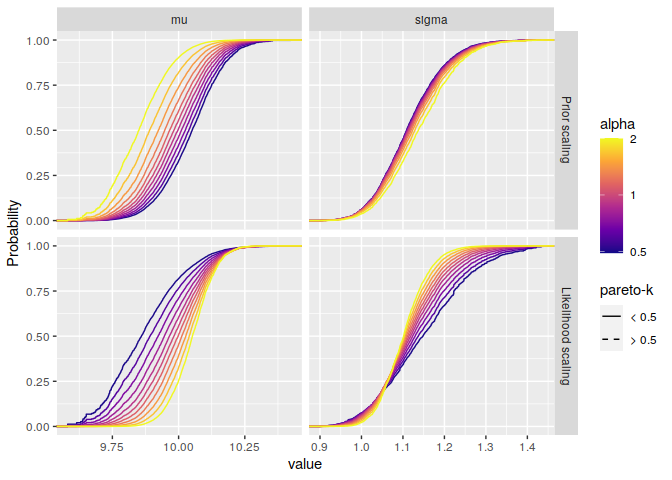
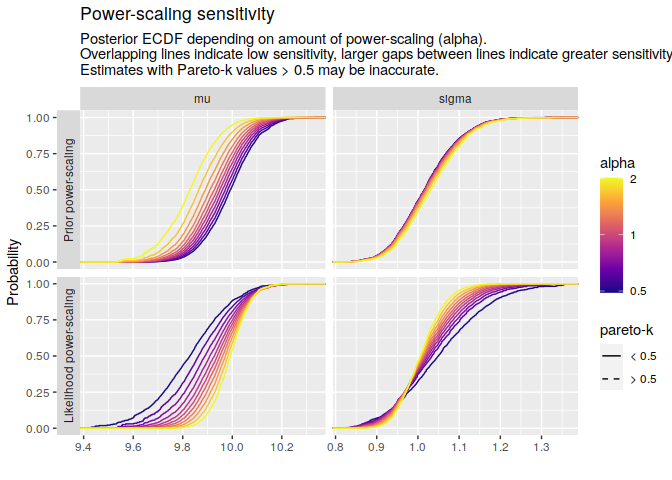
update readme

diff --git a/README.md b/README.md
@@ -30,7 +30,7 @@ priorsense currently works with models created with rstan, cmdstanr or brms. How
 
 ### Example
 
-Consider a simple univariate model with unknown mu and sigma fit to some data y (available via`example_powerscale_model("univariate_normal")`:
+Consider a simple univariate model with unknown mu and sigma fit to some data y (available via`example_powerscale_model("univariate_normal")`):
 
 ``` stan
 data {
@@ -70,7 +70,7 @@ fit <- rstan::stan(
   model_code = normal_model$model_code,
   data = normal_model$data,
   refresh = FALSE,
-  seed = 123
+  seed = 1234
 )
 ```
 
@@ -82,20 +82,21 @@ powerscale_sensitivity(fit, variables = c("mu", "sigma"))
 #> # A tibble: 2 × 4
 #>   variable  prior likelihood diagnosis          
 #>   <chr>     <dbl>      <dbl> <chr>              
-#> 1 mu       0.167      0.228  prior-data conflict
-#> 2 sigma    0.0233     0.0627 -
+#> 1 mu       0.152      0.219  prior-data conflict
+#> 2 sigma    0.0141     0.0612 -
 ```
 
-To visually inspect changes to the posterior, first create a power-scaling sequence and then use a plotting function. Here we use moment matching in order to arrive at more stable estimates.
+To visually inspect changes to the posterior, first create a power-scaling sequence and then use a plotting function.
 
 ``` r
 pss <- powerscale_sequence(fit)
+#> Warning: Some Pareto k diagnostic values are slightly high. See help('pareto-k-diagnostic') for details.
 powerscale_plot_ecdf(pss, variables = c("mu", "sigma"))
 ```
 
 <img src="man/figures/README-sequence-nomm-1.png" width="50%" height="50%" />
 
-In case there are Pareto k values above 0.5, indicating that those estimates should not be trusted, moment matching may help at the expense of slightly more computation:
+In case there are Pareto k values above 0.5, indicating that those estimates should not be trusted, moment matching (currently unavailable for models fit with `cmdstanr`) may help at the expense of slightly more computation:
 
 ``` r
 pss_mm <- powerscale_sequence(fit, moment_match = TRUE)
